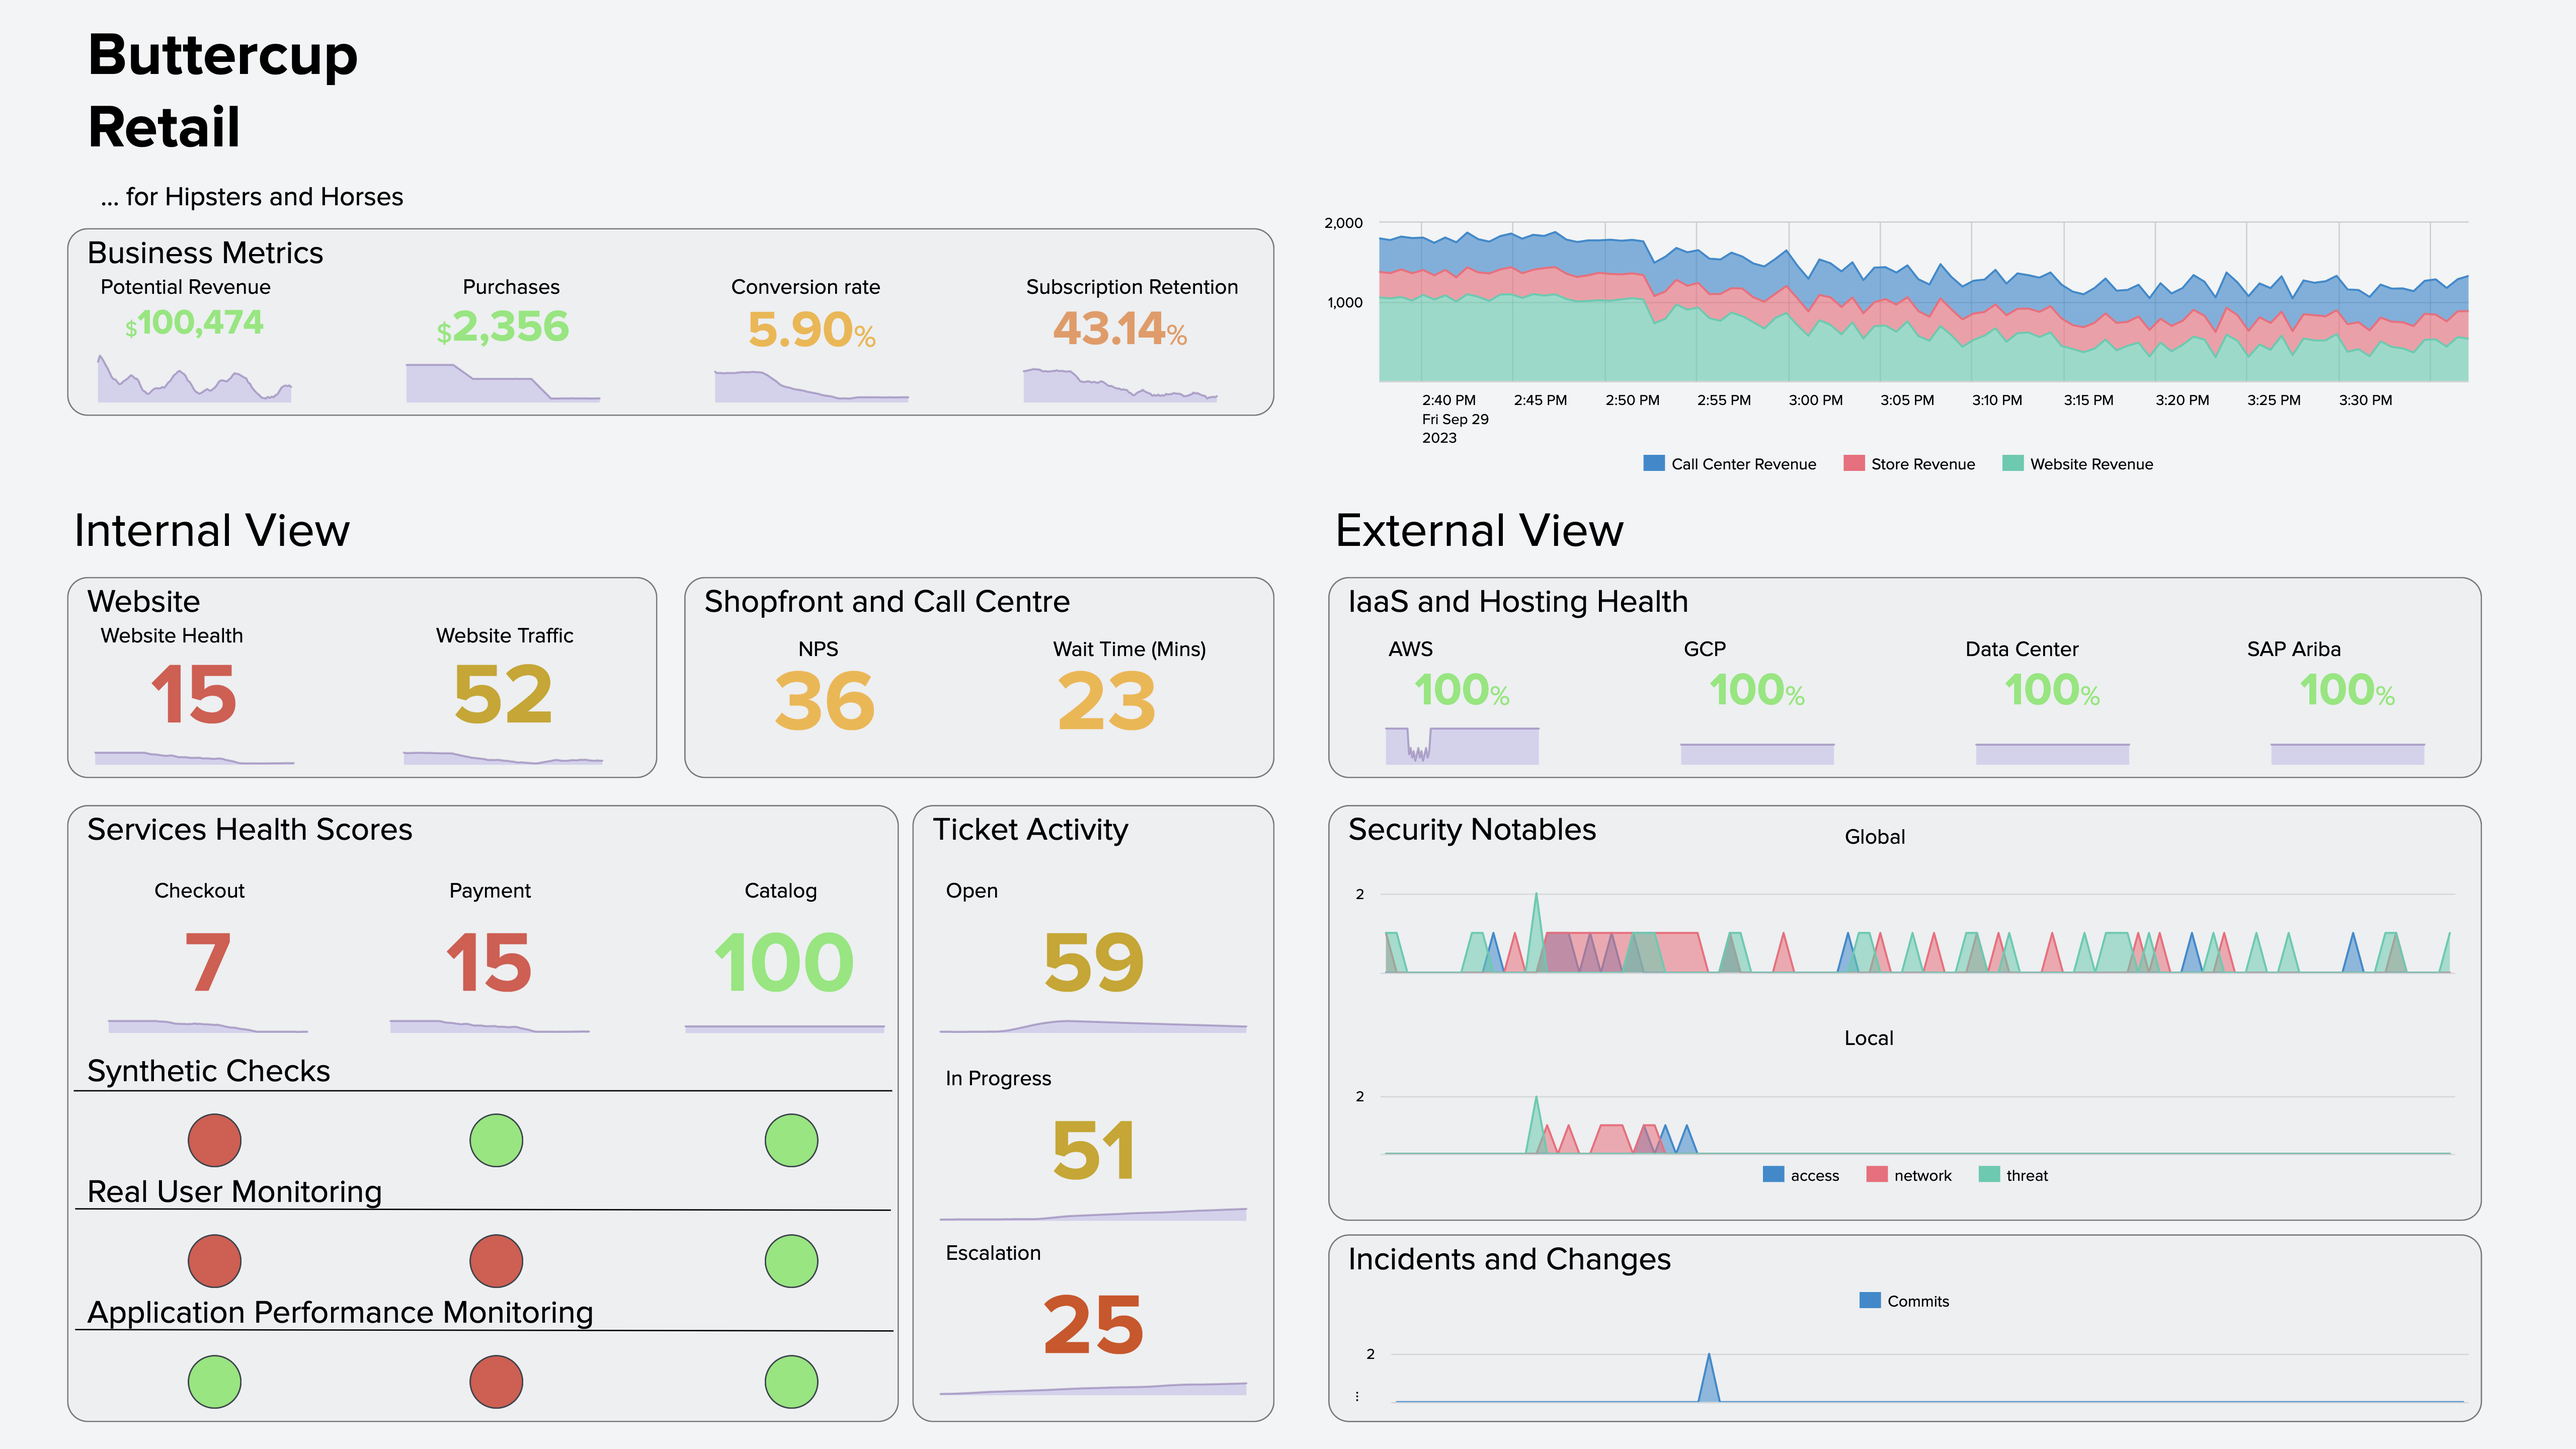
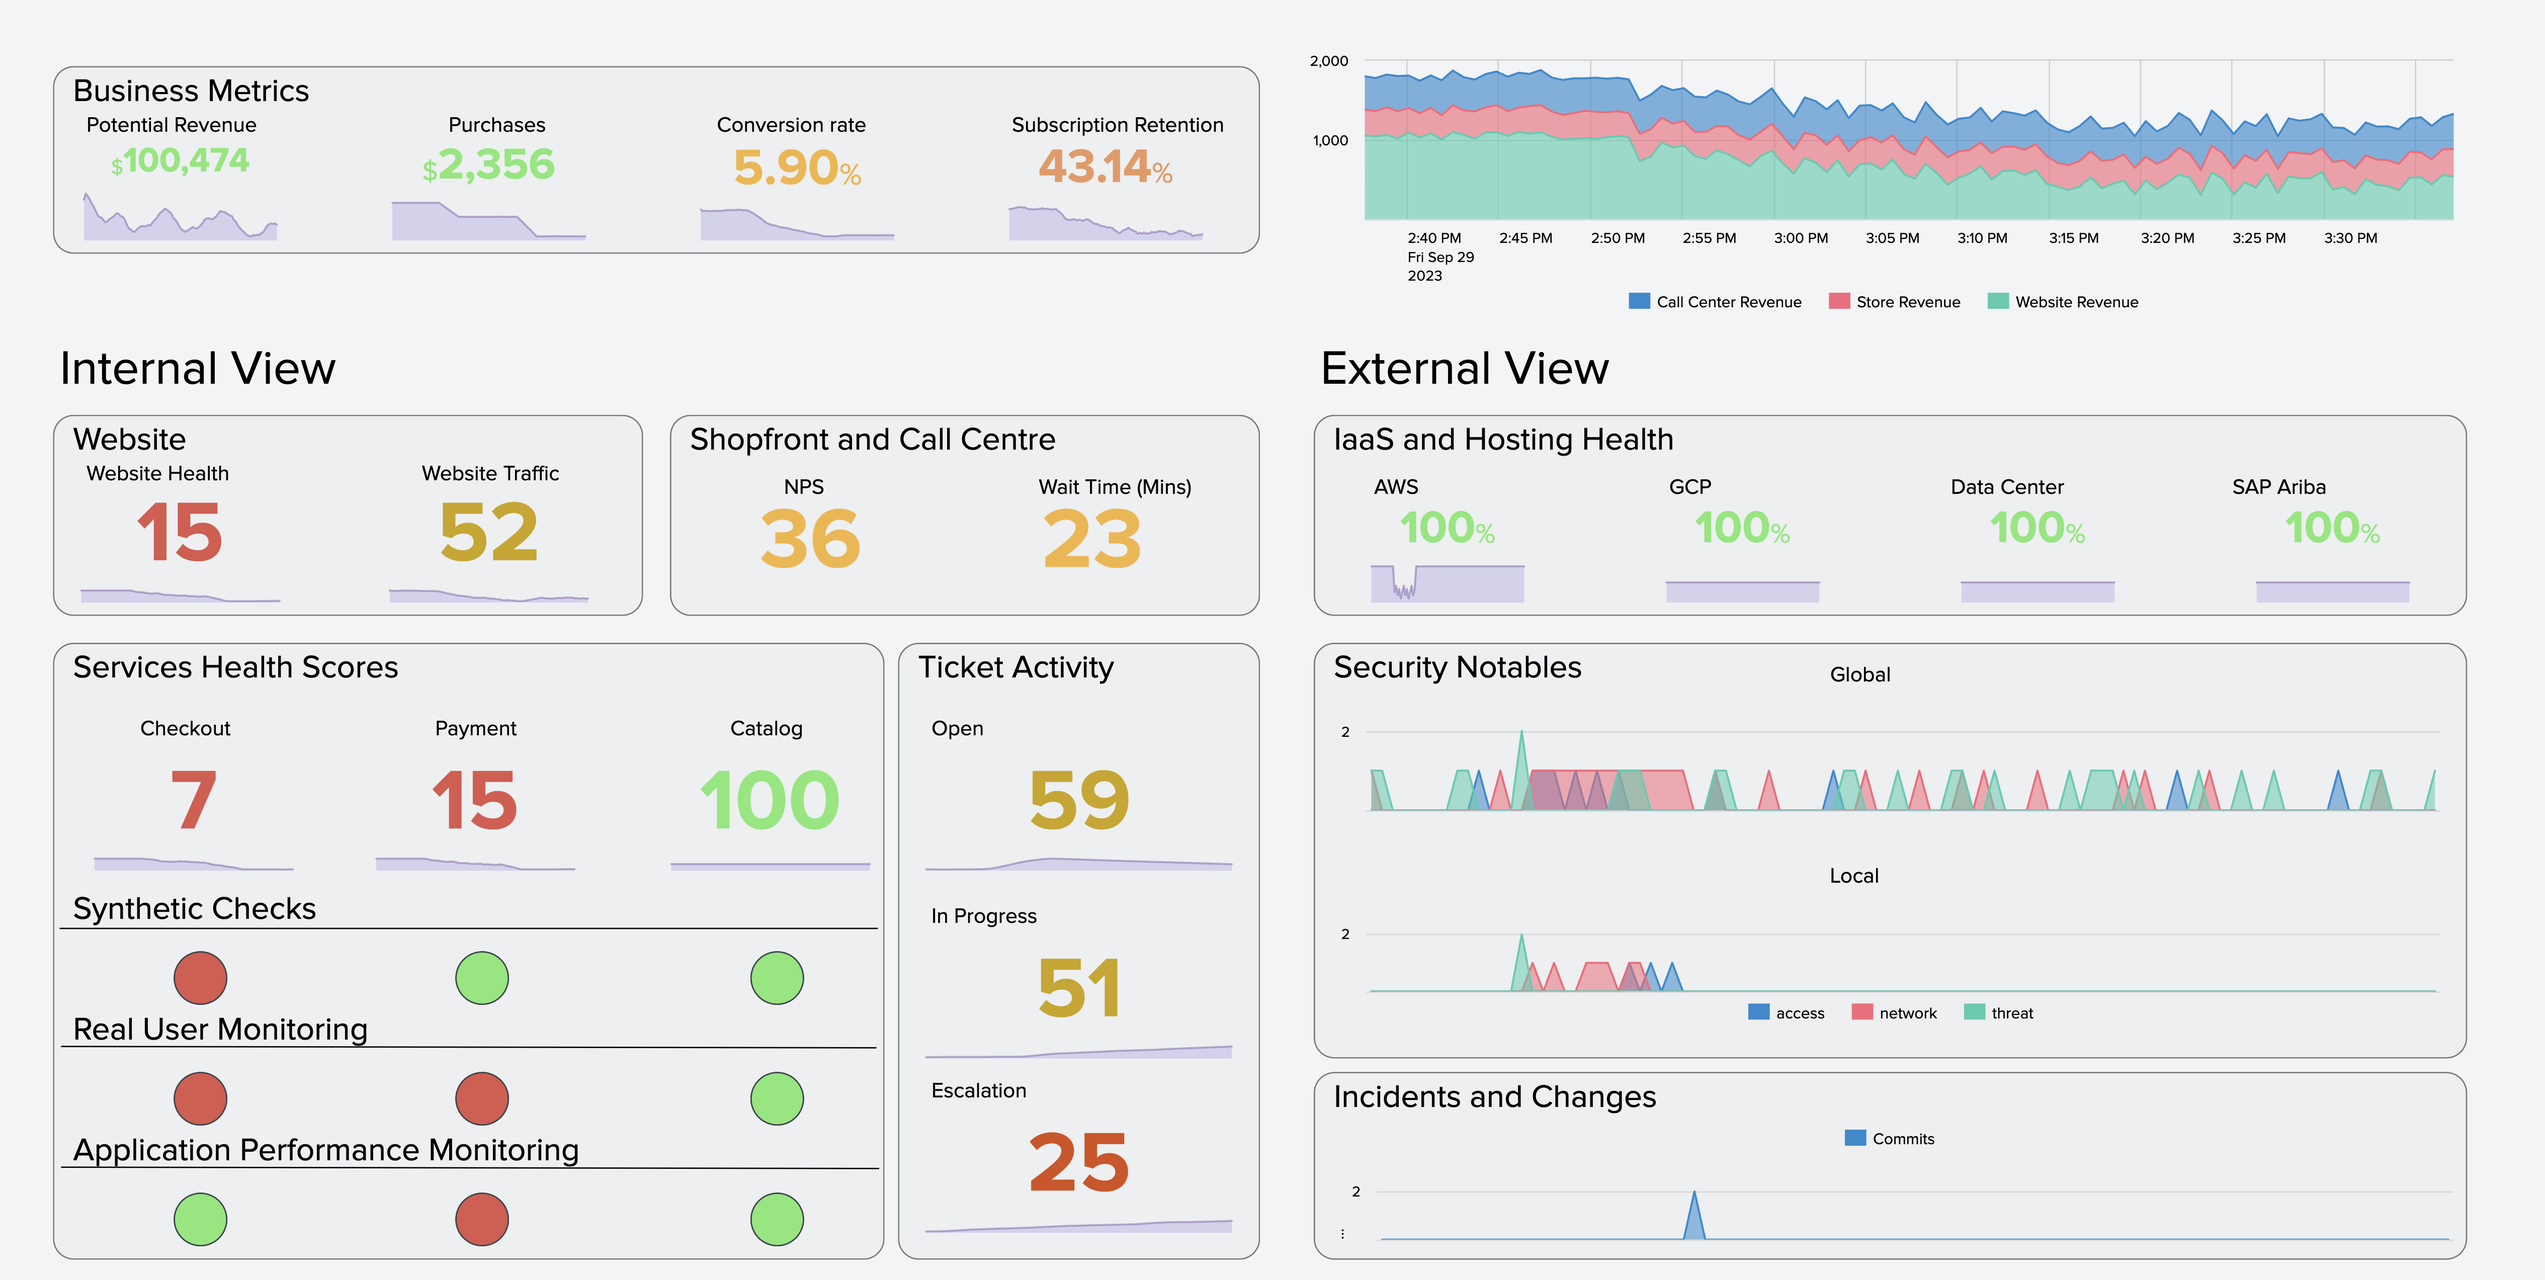
remove Buttercup title from screenshot

diff --git a/get-started/scenarios/splunk-integration-scenario1.rst b/get-started/scenarios/splunk-integration-scenario1.rst
@@ -1,13 +1,13 @@
 .. _splunk-integration-scenario1:
 
 *******************************************************************************************************************
-Scenario: Kai troubleshoots a problem faster with Splunk IT Service Intelligence and Splunk Observability Cloud
+Scenario: Kai troubleshoots faster with Splunk IT Service Intelligence and Splunk Observability Cloud
 *******************************************************************************************************************
 
 .. meta::
    :description: This scenario describers how users can use Splunk ITSI and Splunk Observability Cloud together to drill down faster on problems and reduce mean time to resolution.
 
-Buttercup Games, a fictitious company that runs an e-commerce site to sell its games online, is suddenly experiencing degraded revenue in online sales. Kai, a site reliability engineer at Buttercup Games, uses Splunk IT Service Intelligence and Splunk Observability Cloud together to accelerate troubleshooting.
+Buttercup Games, a fictitious company that runs an e-commerce site, Online Boutique, to sell its wares, is suddenly experiencing degraded revenue in online sales. Kai, a site reliability engineer at Buttercup Games, uses Splunk IT Service Intelligence and Splunk Observability Cloud together to accelerate troubleshooting.
 
 To troubleshoot the problem, Kai takes the following actions: 
 
